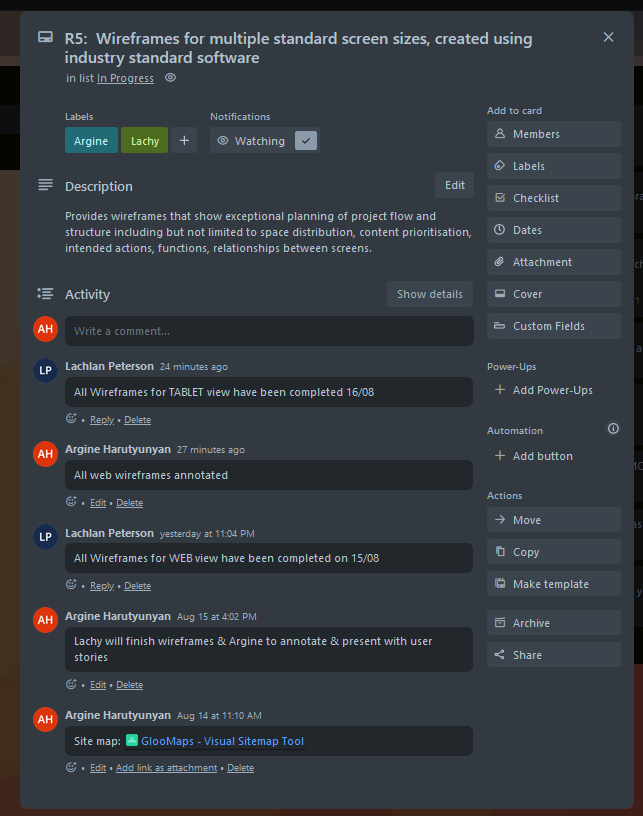
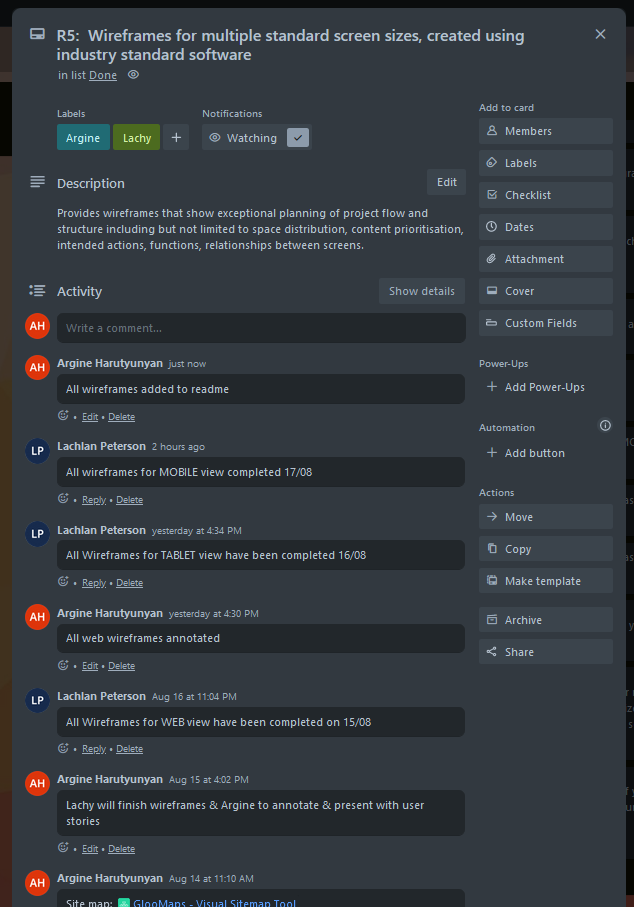
trello screenhots

diff --git a/README.md b/README.md
@@ -420,5 +420,8 @@ Additional screenshots of trello board management throughout the project:
 
 ![Trello board screenshot](/docs/trello/2023-08-17.png)
 
+*18/08/23*
+
+![Trello board screenshot](/docs/trello/2023-08-18.png)
 
 [Back to top](#t3a2-a---full-stack-app-part-a)
